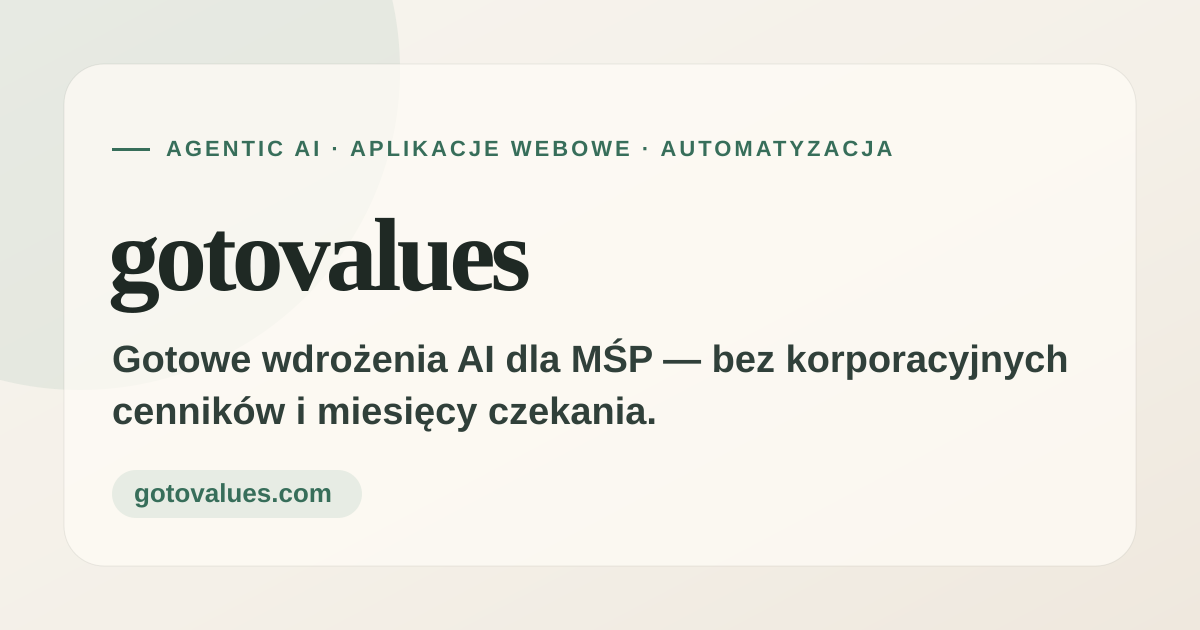
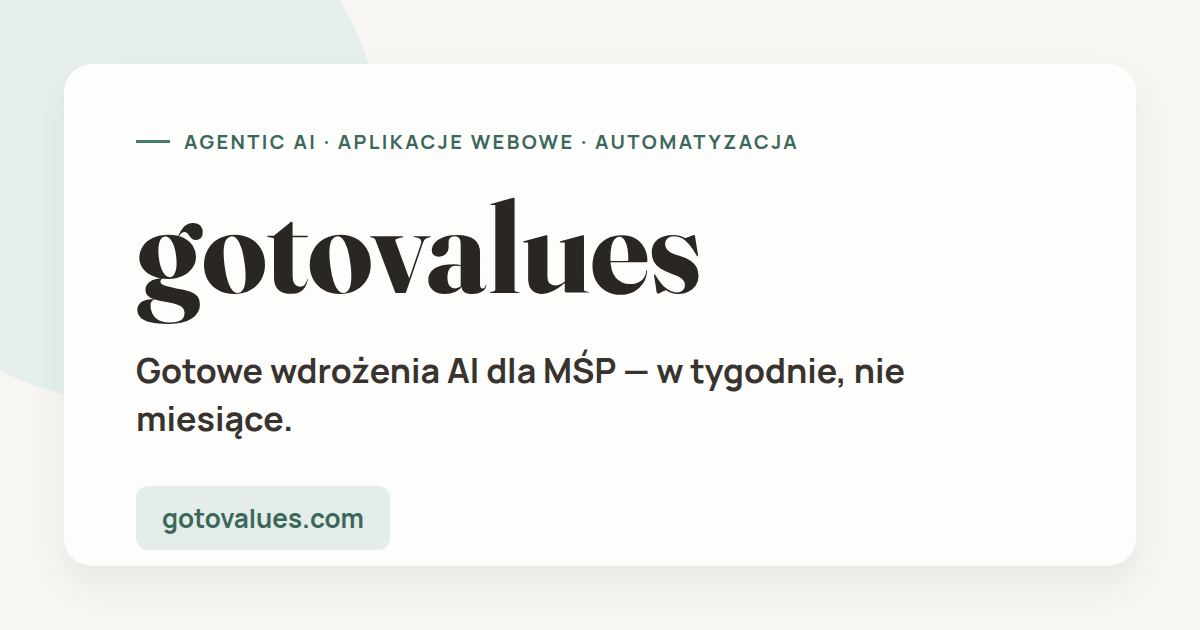
feat(brand): unify visual identity around Fraunces "g" monogram
Replaces the legacy diamond logo across the site and refreshes the
social preview to match the existing serif/cream brand system:

- favicon (.ico 16/32/48, 96px, apple-touch): monogram "g" in Fraunces
- site header: add the mark next to the "gotovalues" wordmark
- og.png: rebuild, dropping the retired "korporacyjnych cenników"
  line in favour of "w tygodnie, nie miesiące"

diff --git a/src/components/site-header.tsx b/src/components/site-header.tsx
@@ -1,3 +1,4 @@
+import Image from "next/image";
 import Link from "next/link";
 
 import { siteContent } from "@/content/site";
@@ -10,6 +11,14 @@ export function SiteHeader() {
   return (
     <header className="site-header">
       <Link className="brand-mark" href="/">
+        <Image
+          className="brand-mark-icon"
+          src="/images/mark.png"
+          alt=""
+          width={19}
+          height={27}
+          priority
+        />
         {siteContent.brand.name}
       </Link>
       <nav className="site-nav" aria-label="Główna nawigacja">

diff --git a/src/app/globals.css b/src/app/globals.css
@@ -129,10 +129,18 @@ textarea {
 }
 
 .brand-mark {
+  display: flex;
+  align-items: center;
+  gap: 8px;
   font-family: var(--font-body), sans-serif;
   font-size: 1.38rem;
   font-weight: 800;
   letter-spacing: -0.05em;
+}
+
+.brand-mark-icon {
+  height: 27px;
+  width: 19px;
 }
 
 .site-nav {
